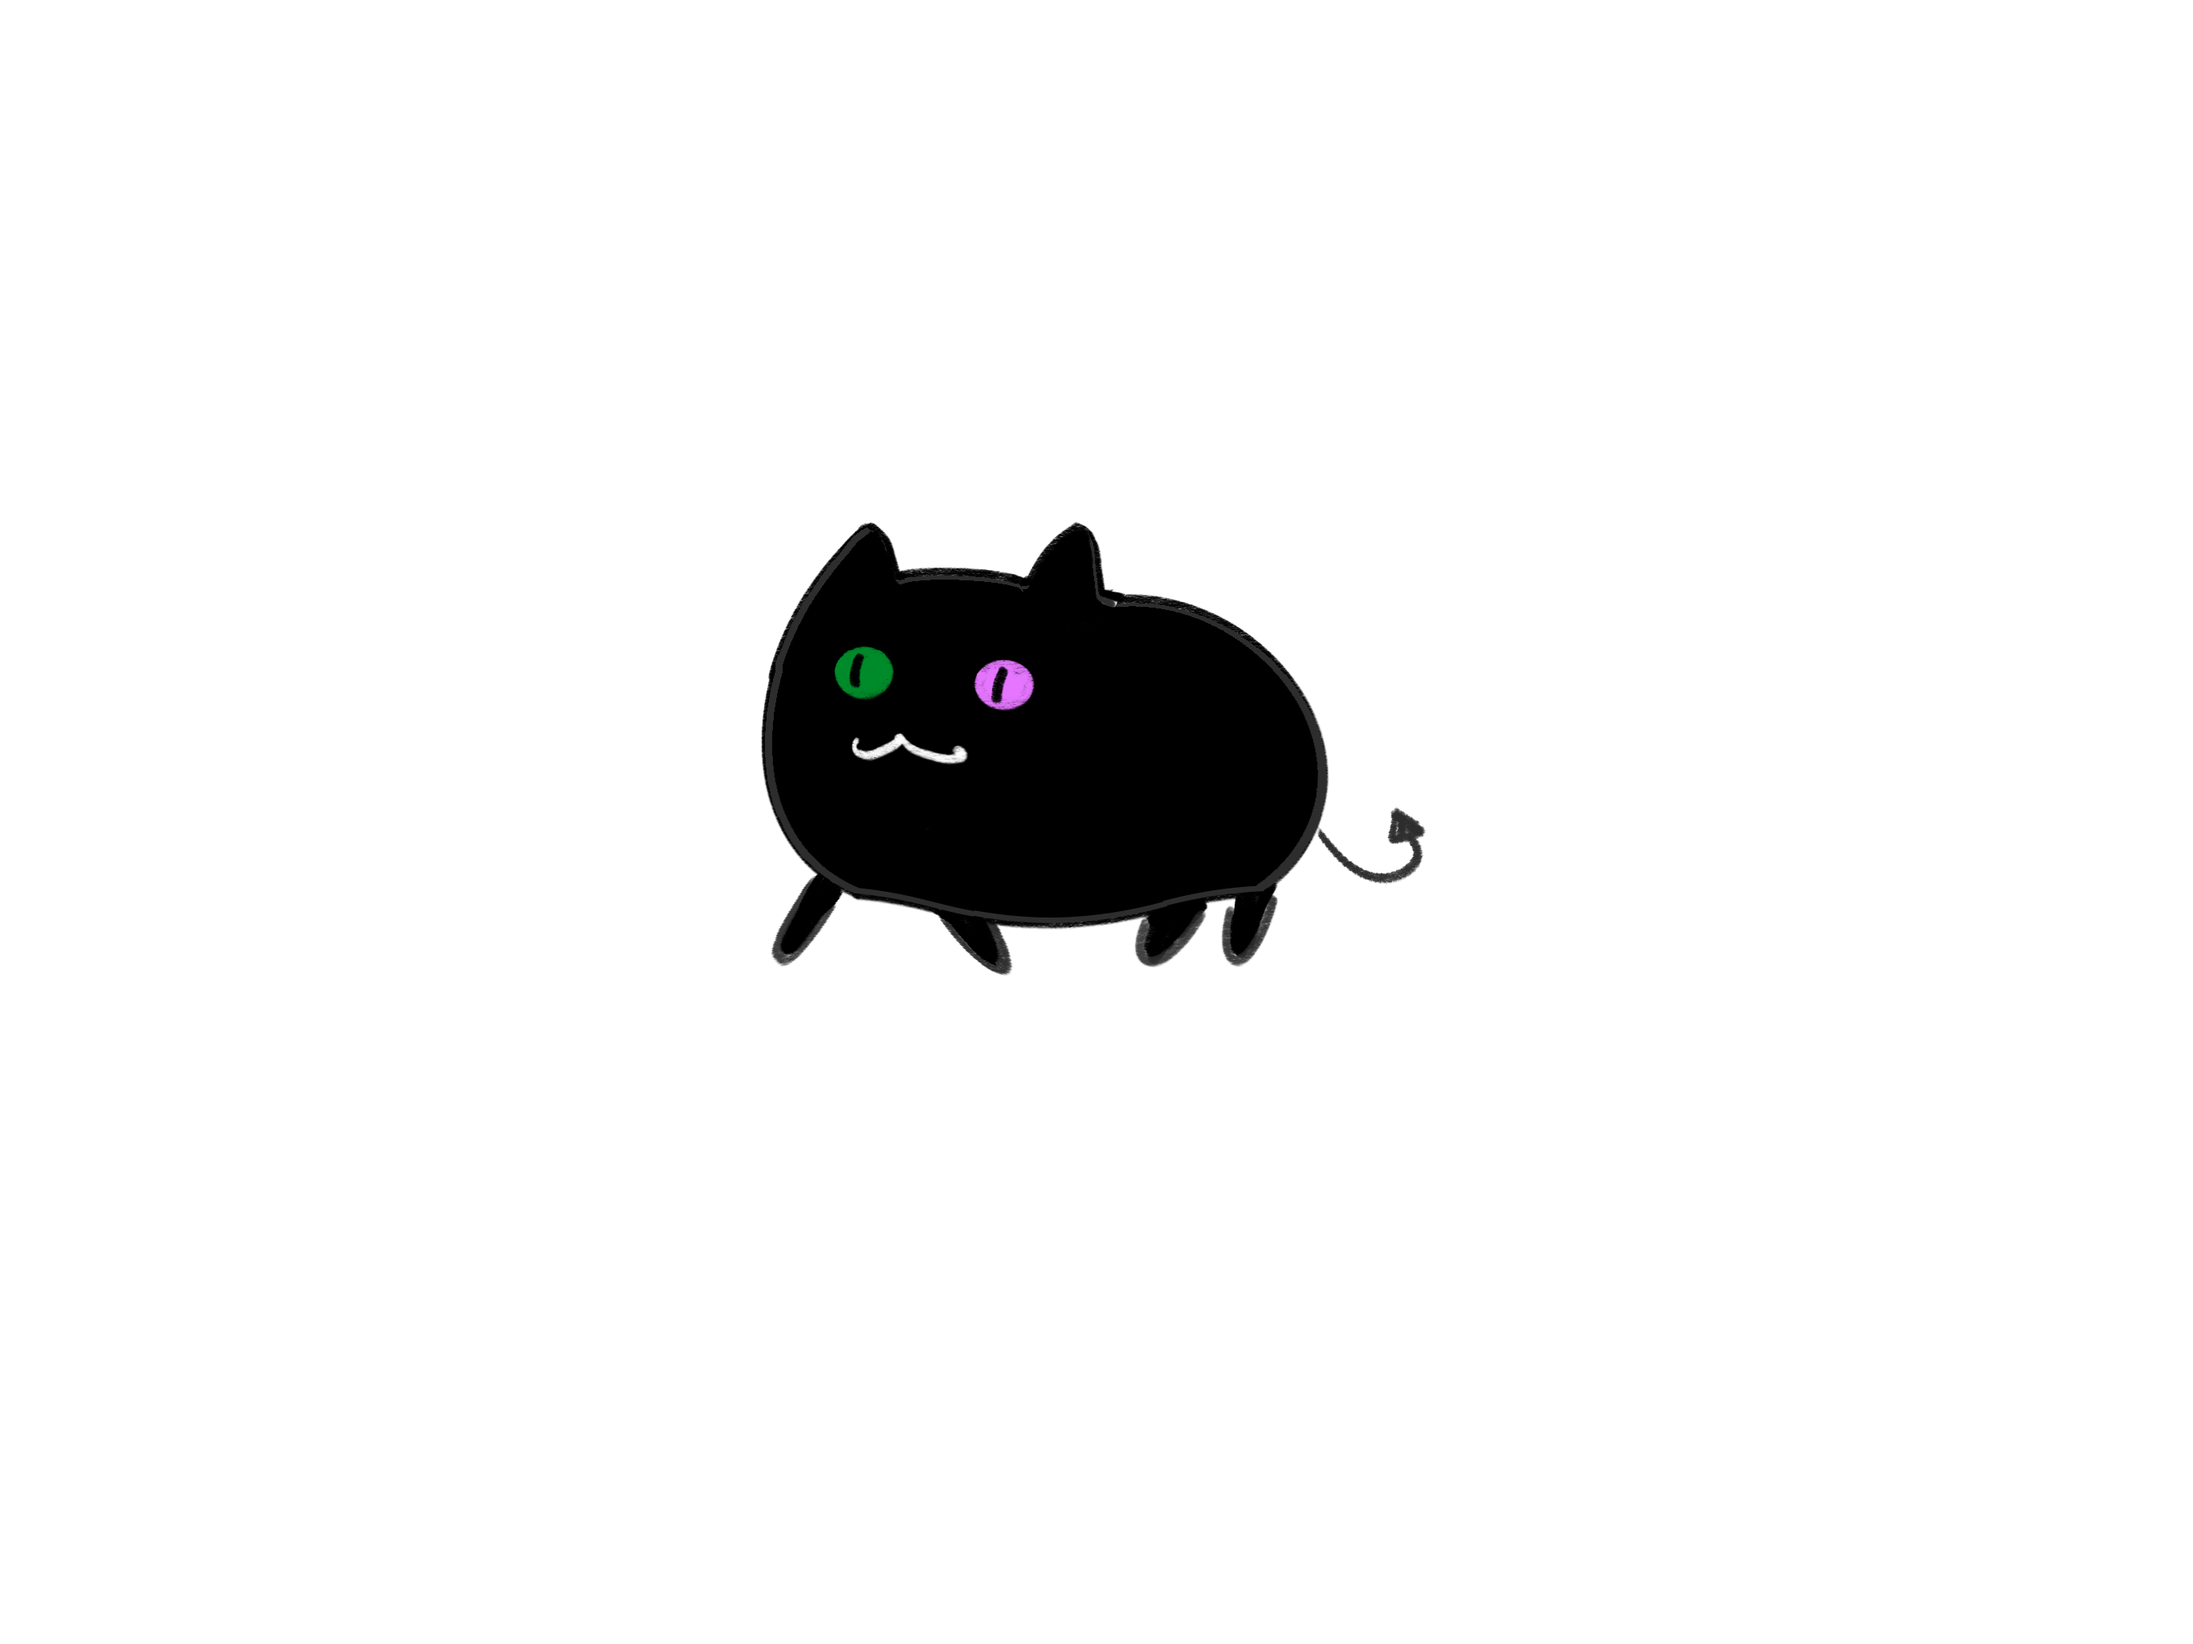
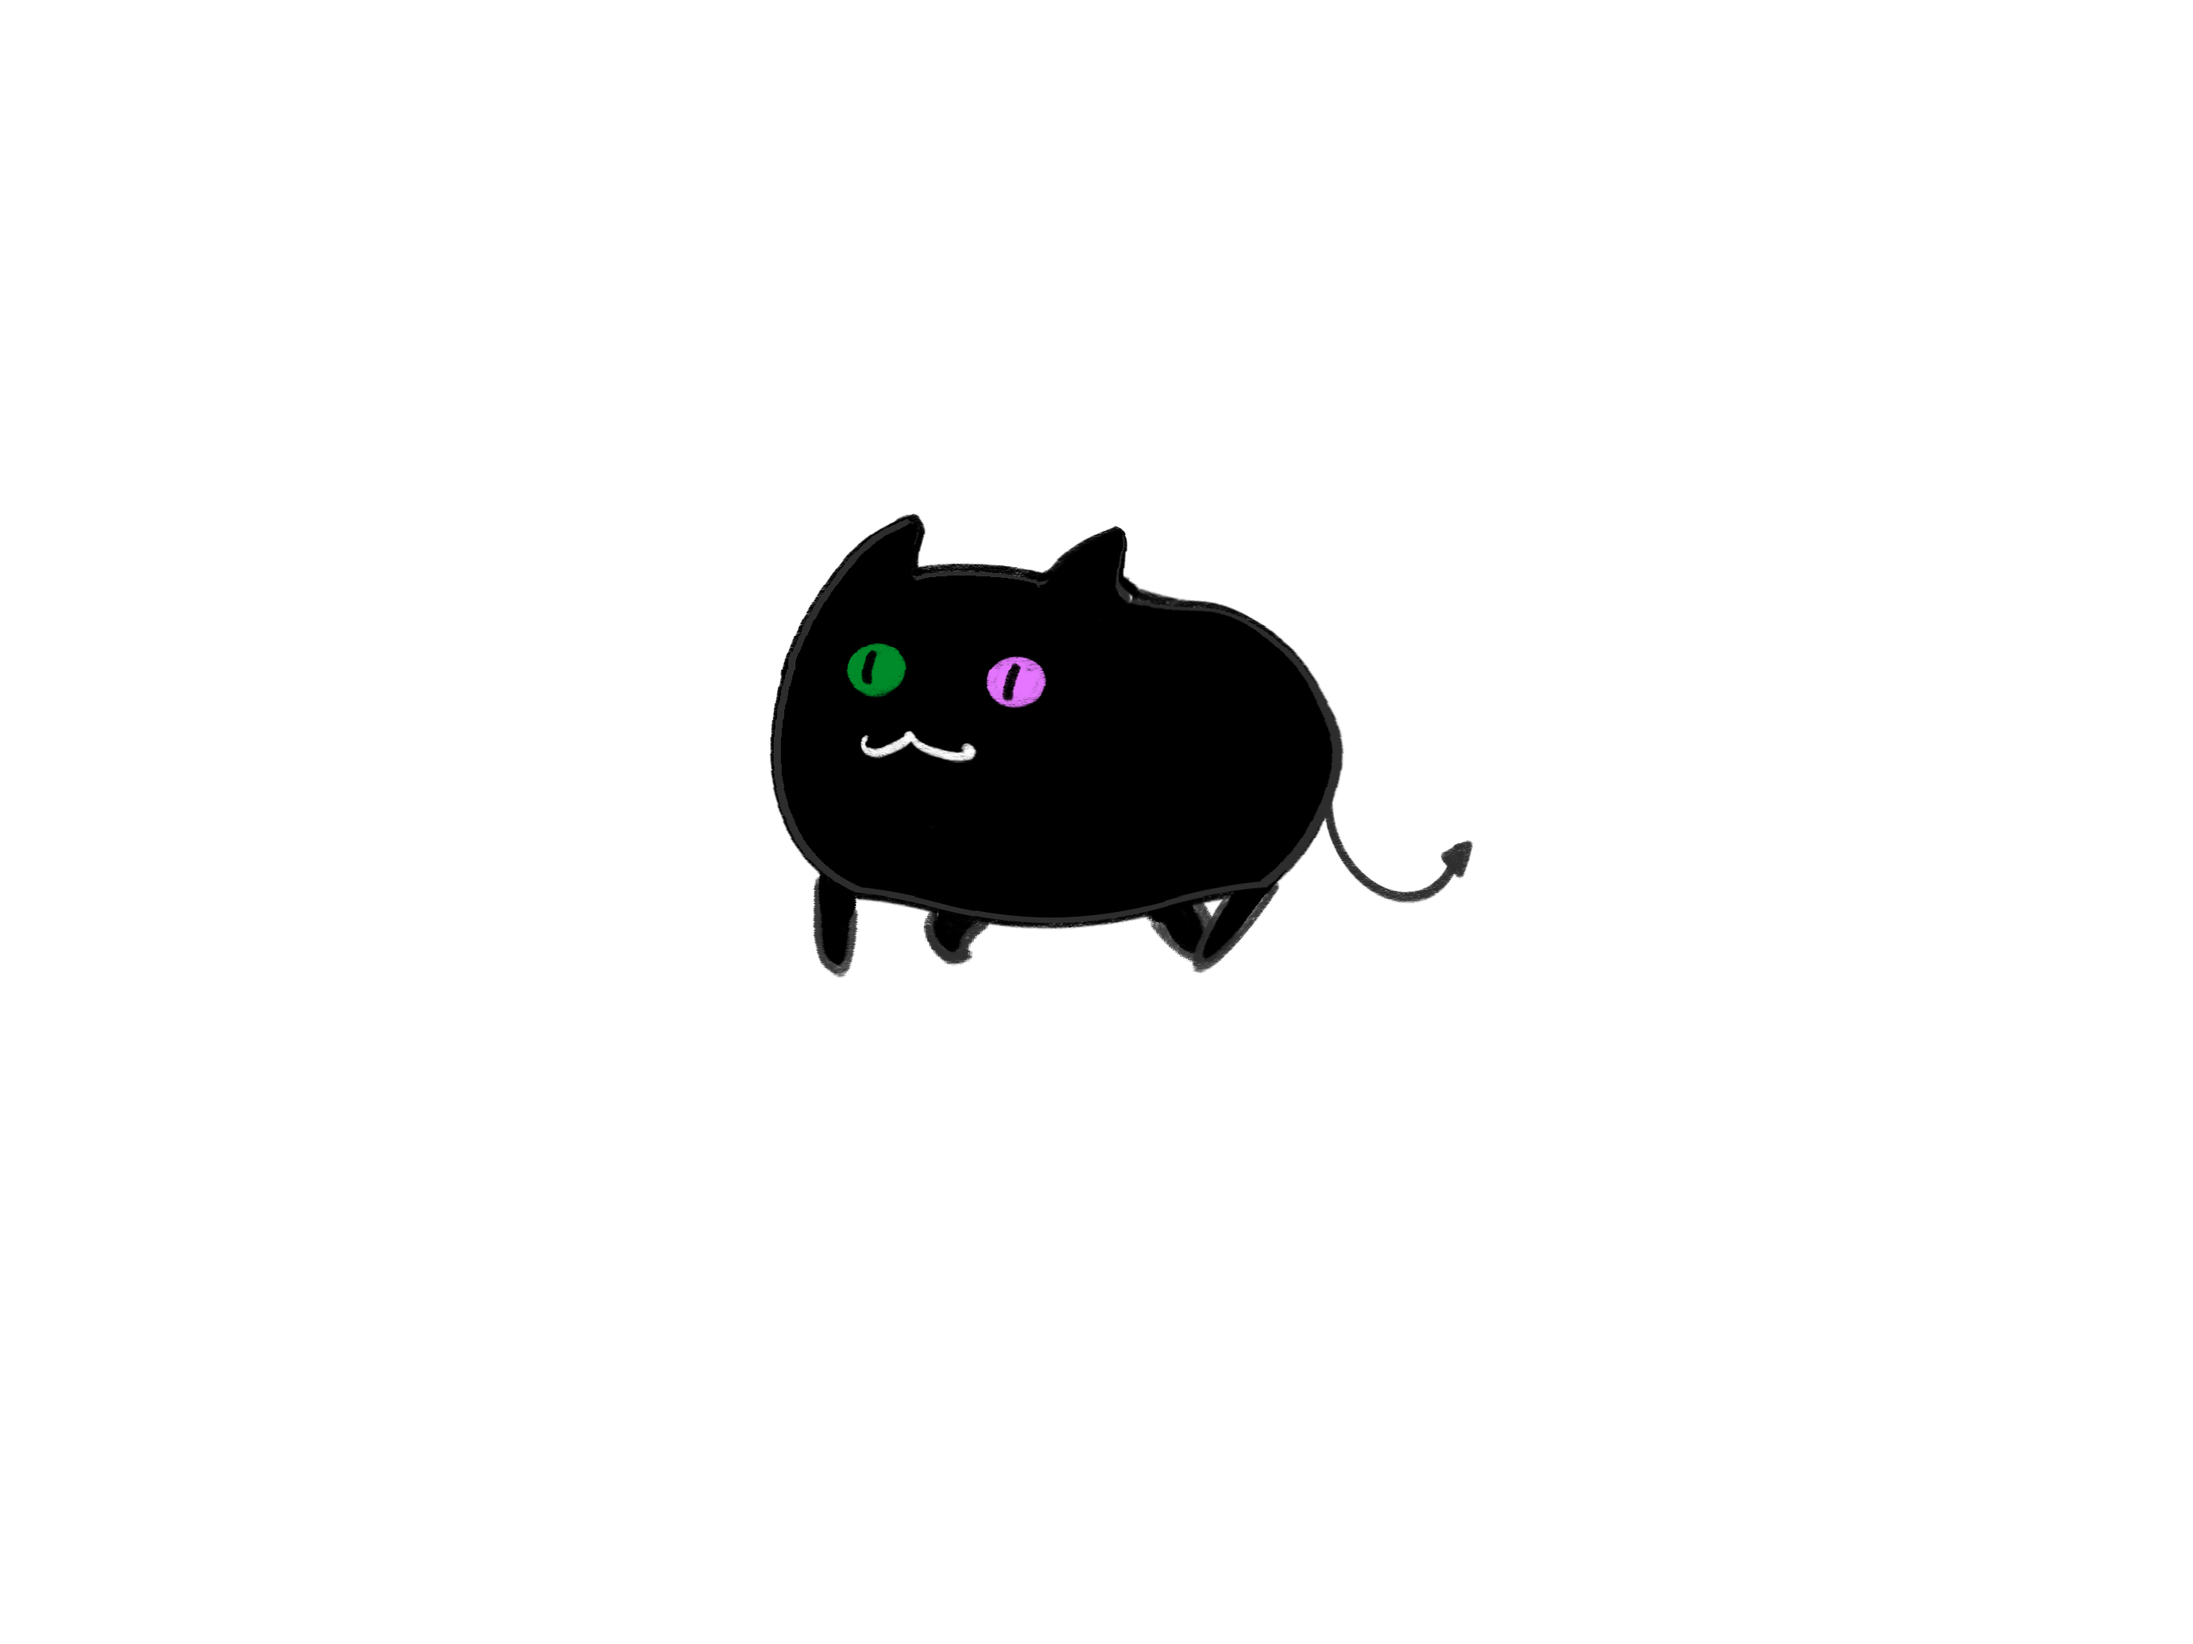
added cat walk animation

diff --git a/frogfrogfrog/js/script.js b/frogfrogfrog/js/script.js
@@ -1,6 +1,6 @@
 /**
- * Frogfrogfrog
- * Pippin Barr
+ * CatCatCat
+ * Ziyan Pan
  * 
  * A game of catching flies with your frog-tongue
  * 
@@ -14,6 +14,16 @@
  */
 
 "use strict";
+
+//Our cat variables
+let catFrames = [];
+let frameIndex = 0;  
+const cat = {
+    x:100,
+    y:200,
+    size: 150
+};
+
 
 // Our frog
 const frog = {
@@ -51,18 +61,27 @@ const fly = {
     speed: 3
 };
 
+function preload(){
+    for (let i = 0; i < 4; i++) {
+    catFrames[i] = loadImage(`assets/images/Walk${i}.png`);
+    console.log("cat frame is added")
+  }
+}
+
 //Our Starting Scene 
 //has instructions and start the game button
 function GameStartUI() {
     //setting up background and instruction texts
     push();
     background("#67d39fff");
+    catWalk();// cat idel animation
+
     textSize(20);
     textAlign(LEFT, CENTER); //align to the left
-    text("Instructions:", width / 4, height / 6); // the text is displayed at x: width/4 and y: height/6
-    text("* - Move the frog with your mouse", width / 4, height / 6 + 30);
-    text("* - Click to launch the tongue", width / 4, height / 6 + 60);
-    text("* - Catch flies", width / 4, height / 6 + 90);
+    text("Instructions:", width / 4, height / 5); // the text is displayed at x: width/4 and y: height/6
+    text("* - Move the frog with your mouse", width / 4, height / 5 + 30);
+    text("* - Click to launch the tongue", width / 4, height / 5 + 60);
+    text("* - Catch flies", width / 4, height / 5 + 90);
     pop();
 
     //text of starting the game 
@@ -70,7 +89,7 @@ function GameStartUI() {
     textSize(48);
     textAlign(CENTER, CENTER);
     textStyle(BOLD);
-    text("Press to Start the Game", width / 2, height / 2);
+    text("Press to Start the Game", width / 2, height / 8);
     console.log("instruction scene");
     pop();
 
@@ -101,6 +120,7 @@ function gameState() {
     }
 }
 
+//Our ending scene
 function gameOverUI(){
     background("#ebb987ff");
     push();
@@ -108,6 +128,15 @@ function gameOverUI(){
     textAlign(CENTER, CENTER);
     textStyle(BOLD);
     text("Game Over", width / 2, height / 2);
+}
+
+function catWalk(){
+    image(catFrames[frameIndex], width/2, height/2, 400, 400);
+    // console.log("there is an image",Image);
+    if (frameCount % 15 === 0) {
+    frameIndex = (frameIndex + 1) % catFrames.length;
+  }
+//   console.log("the cat is walking")
 }
 
 /**
